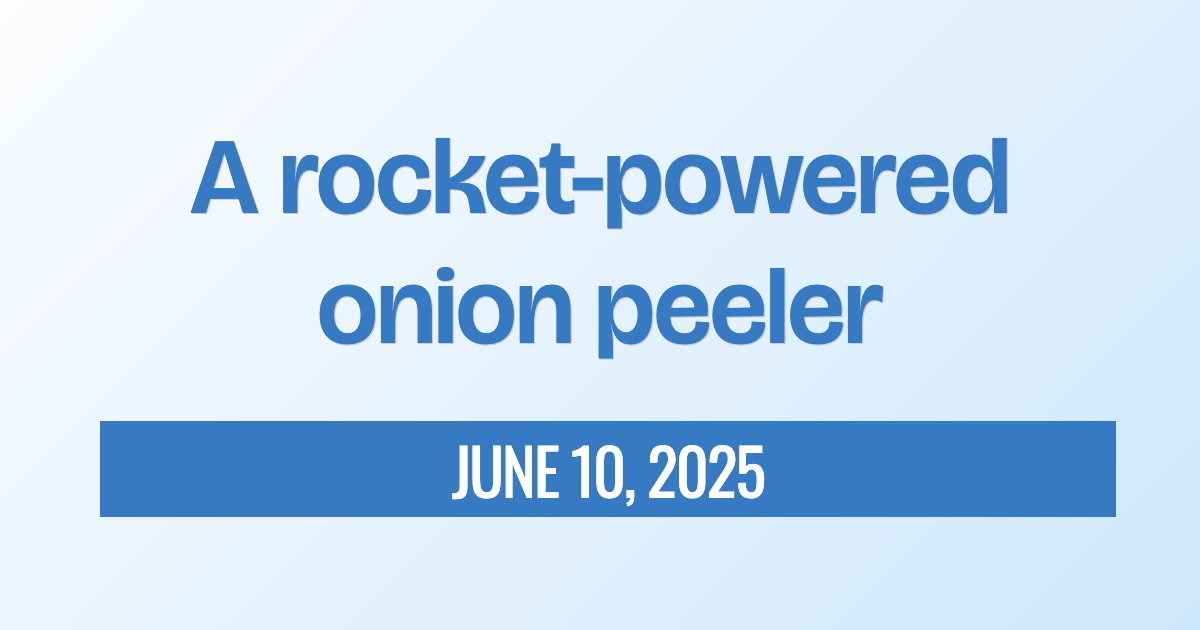
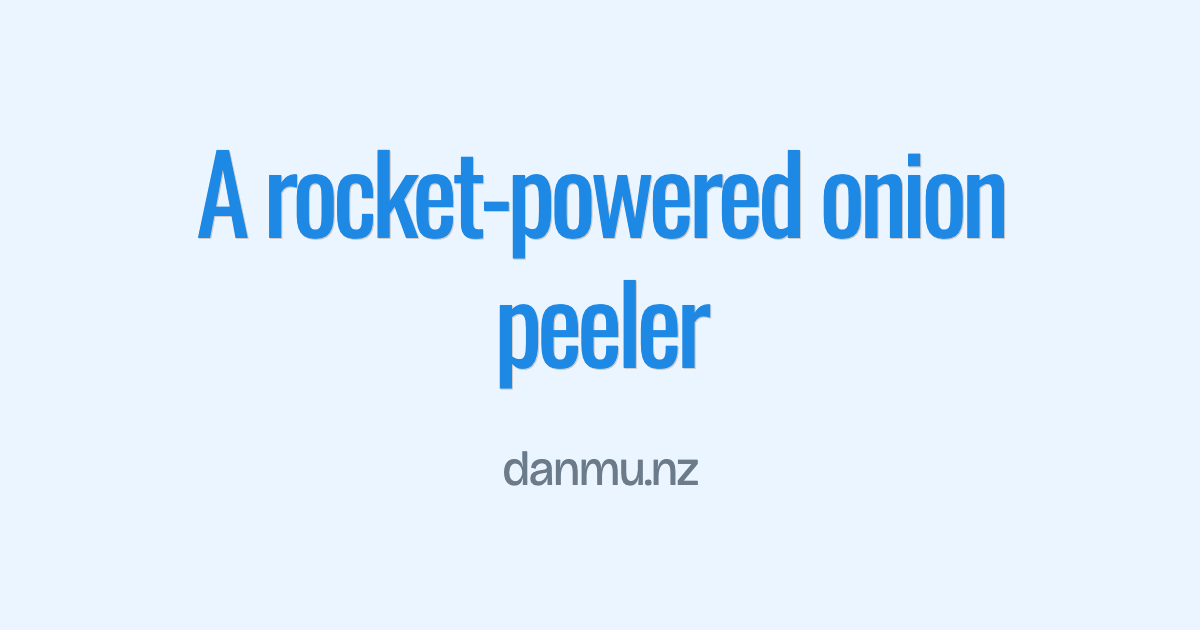
og images

Changed region(s): [[0.0617, 0.6333, 1.0, 1.0], [0.1542, 0.2111, 0.8633, 0.4222], [0.2467, 0.4222, 0.74, 0.6333]]

diff --git a/_includes/og-image-template.html b/_includes/og-image-template.html
@@ -22,35 +22,36 @@
       display: flex; 
       align-items: center; 
       justify-content: center;
+  /*
       background: linear-gradient(135deg, rgb(252, 253, 254), rgb(205, 231, 252));
-      color: white;
+  */
+background-color: #ebf5ff;
+  color: white;
     }
 
 
 h1 {
-color: #357ac3;
-font-family: 'Bricolage Grotesque', sans-serif;
+color: #1e88e5;
+font-family: 'Oswald', 'Arial Narrow',sans-serif;
+    text-shadow: 1px 1px #cccccc;
+
 font-size: 108px;
-letter-spacing: -0.01em;
+letter-spacing: -0.05em;
 line-height: 1.2em;
-text-shadow: rgb(204, 204, 204) 1px 1px 0px;
-font-weight: 600;
+font-weight: 400;
 margin:0;
 padding: 0;
 }
 
 .meta {
 margin-top: 48px;
-font-size: 64px;
-background-color: #357ac3;
-font-family: 'Oswald', sans-serif;
-text-transform: uppercase;
+font-size: 48px;
+font-family: 'Bricolage Grotesque', sans-serif;
 letter-spacing: -0.03em;
 font-weight: 400;
 line-height: 1.5em;
-color: white;
-padding: 0 8px;
-width: 100%;
+color: #6c7b8a;
+padding: 0;
 }
 
 
@@ -64,7 +65,7 @@ width: 100%;
 
     
       <div class="meta">
-        <span class="date">{{ date }}</span>
+        danmu.nz
         </div>
 
 </div>
